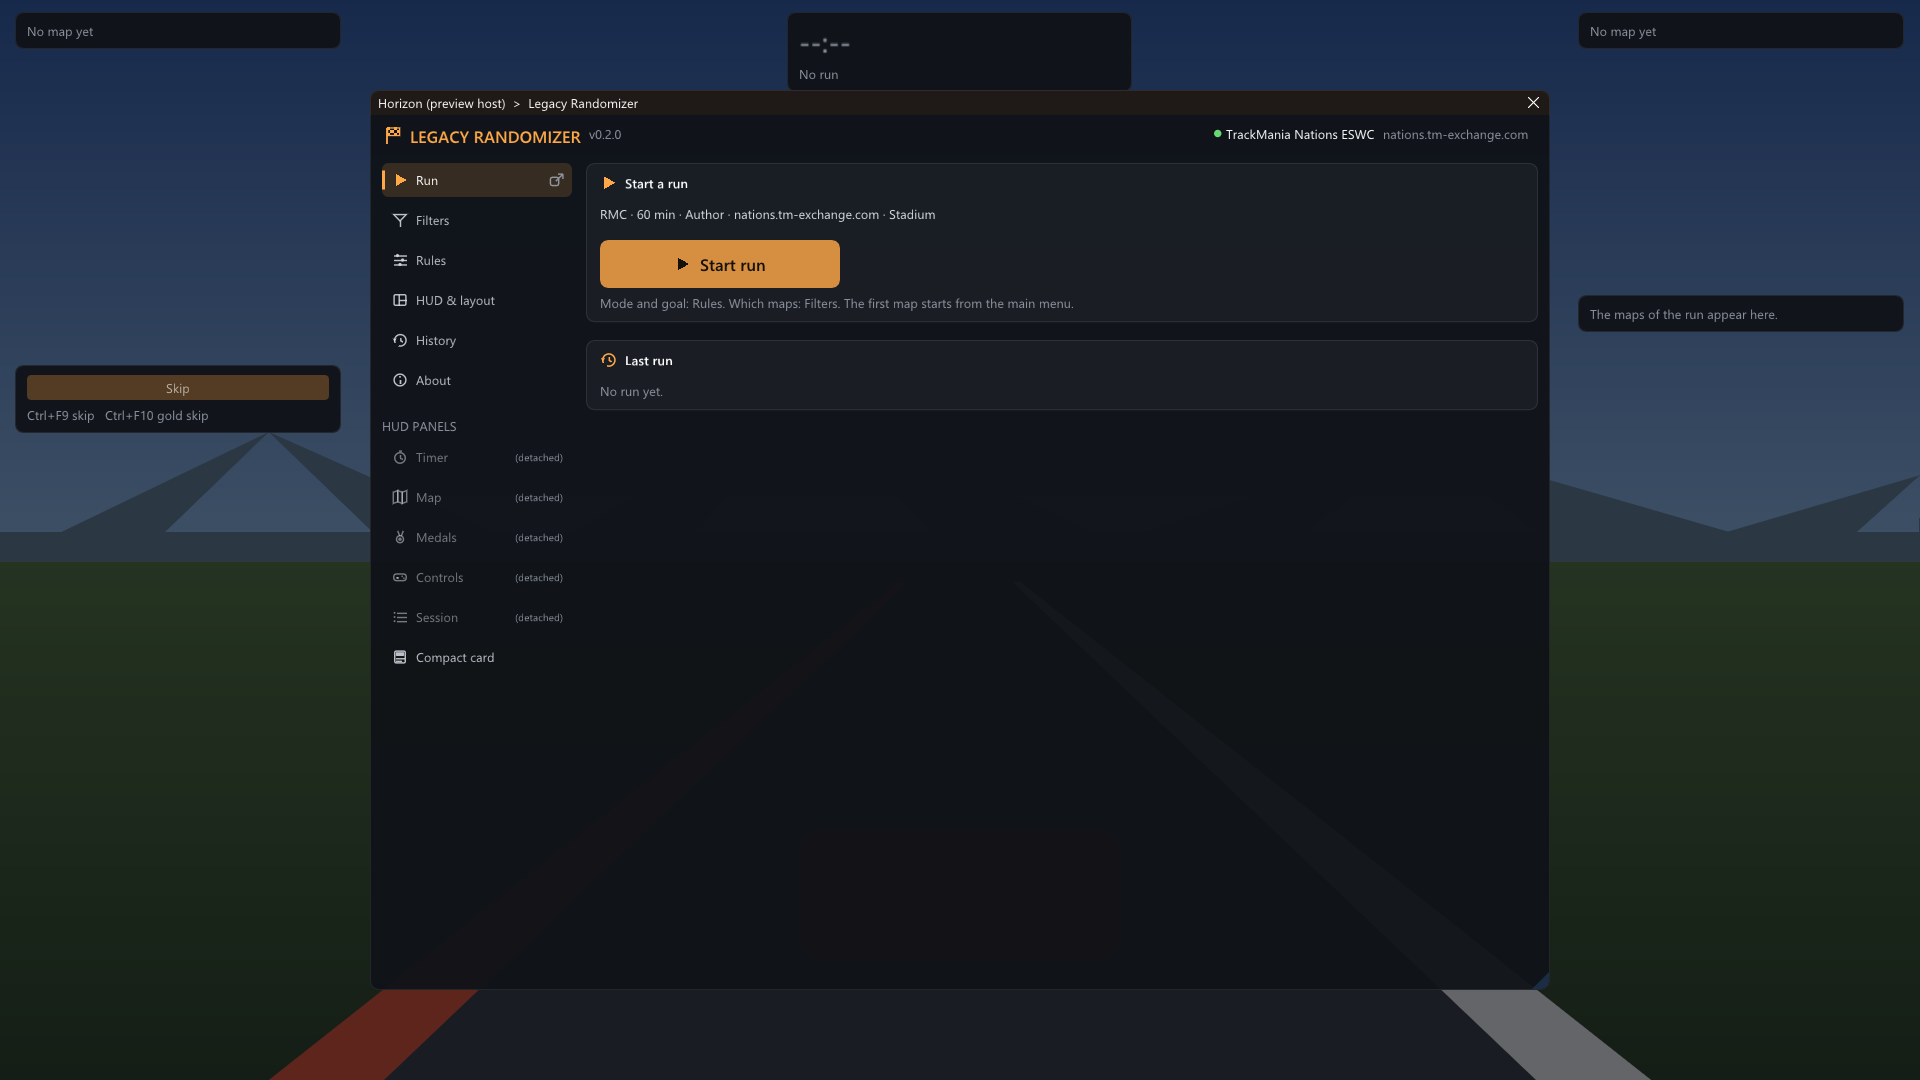
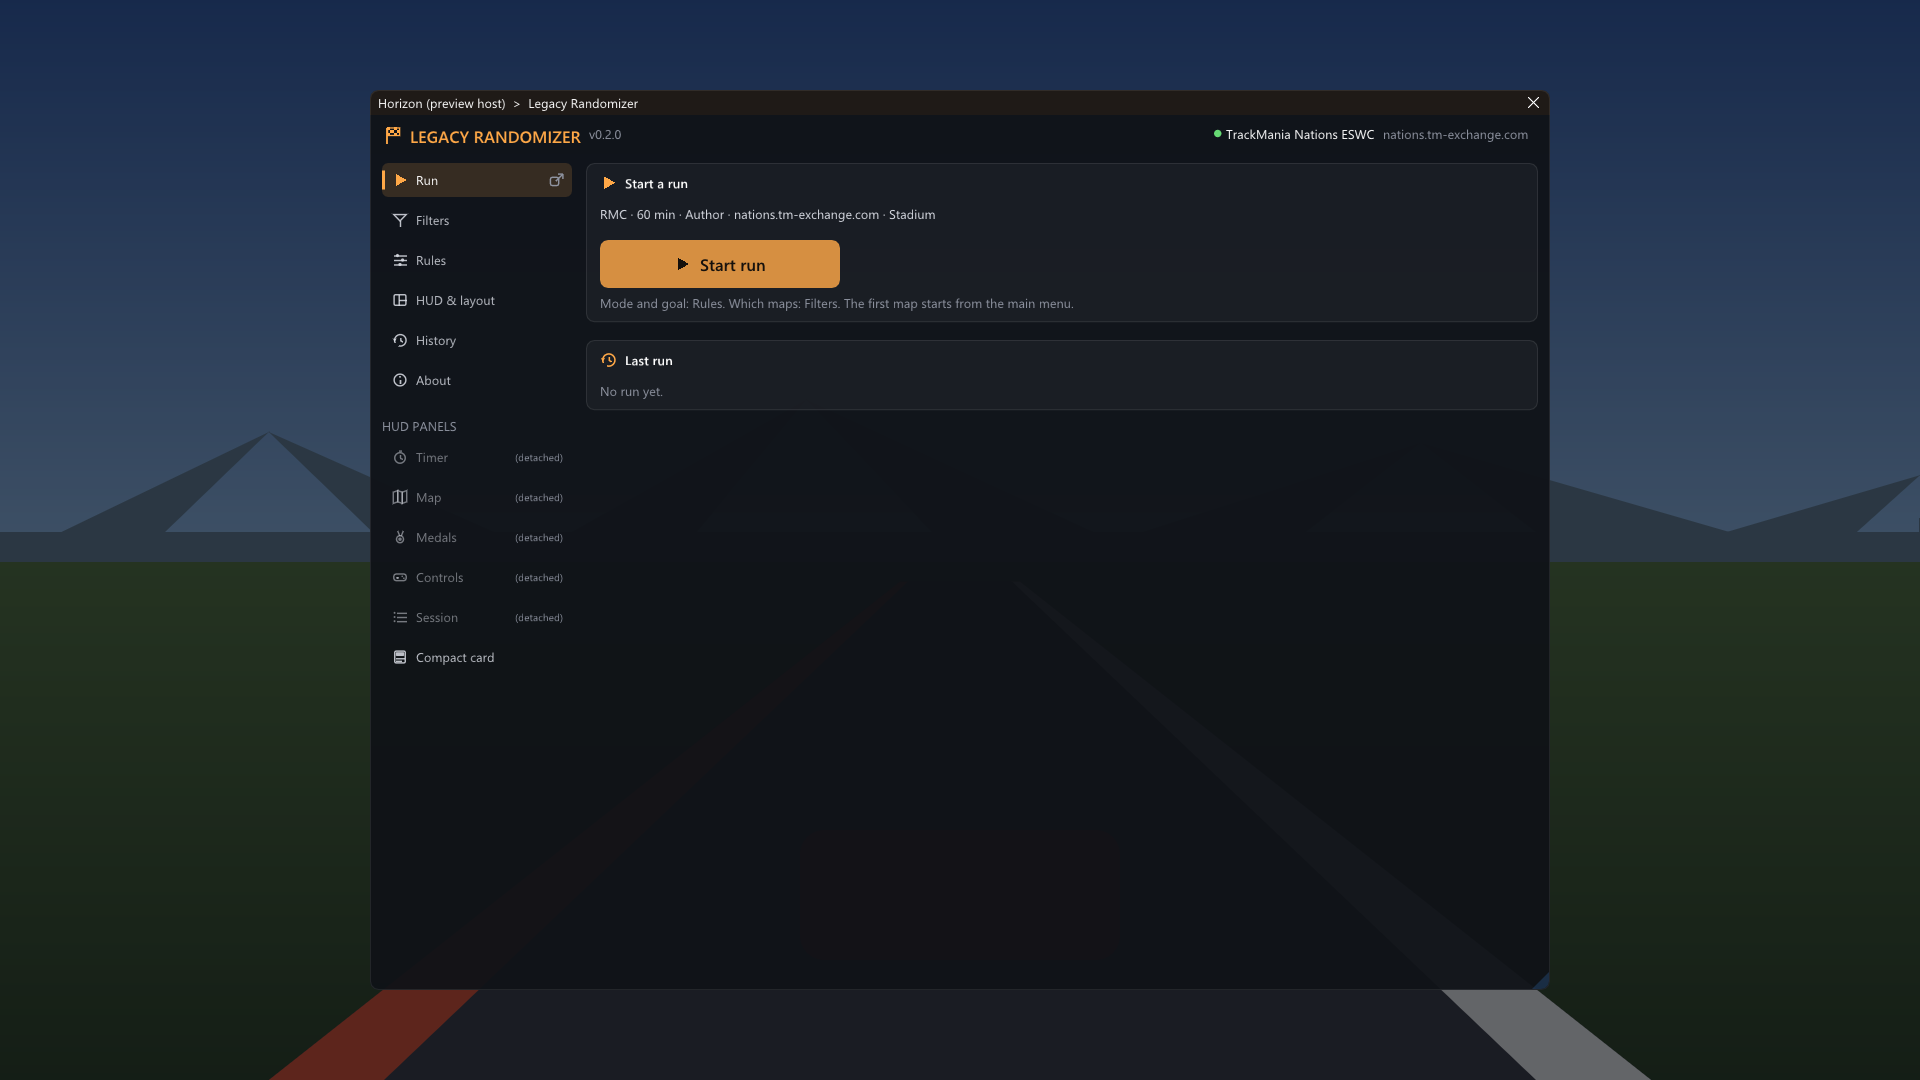
HUD panels stay hidden without a run, except in layout editing

diff --git a/src/plugin/panels.cpp b/src/plugin/panels.cpp
@@ -217,7 +217,9 @@ void Panels::drawWindows(bool menuOpen, bool runActive, bool hudVisible, bool ed
     for (const PanelDef& d : kPanels) {
         const PanelState& w = state(d);
         if (!w.detached) continue;
-        bool show = menuOpen || (w.keepOpen && (!d.hud || (runActive && hudVisible)));
+        // HUD panels without a run stay hidden (empty "No map yet" cards), except while arranging the layout.
+        bool show = d.hud ? ((runActive && (menuOpen || (w.keepOpen && hudVisible))) || (menuOpen && editLayout))
+                          : (menuOpen || w.keepOpen);
         if (show) drawWindow(d, editLayout && menuOpen, false);
     }
 }
